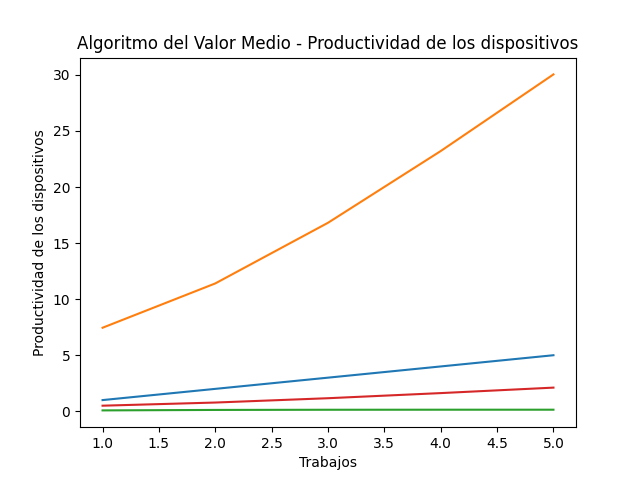
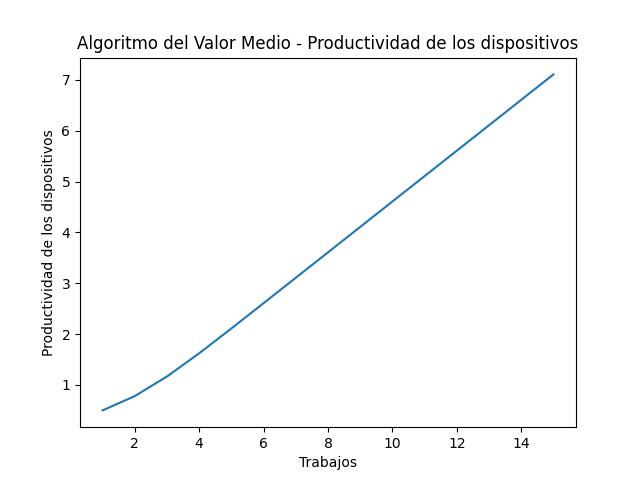
Finalizado

diff --git a/practica5.py b/practica5.py
@@ -1,5 +1,4 @@
 import csv
-import pandas as pd
 import matplotlib.pyplot as plt
 
 # Leemos el fichero con los datos
@@ -55,25 +54,27 @@ def __main__():
 
         write.writerows(resultados)
 
-    # Graficamos los resultados
+    # Almacenamos los valores del eje x para todas las graficas
     j = 0
     eje_x = [fila[j] for fila in resultados]
 
+    # Almacenamos las cabeceras de los valores del eje y
     cabeceras = [
-        "Tiempo de respuesta del sistema", 
-        "Productividad del sistema", 
-        "Tiempo de respuesta de los dispositivos",
-        "Productividad de los dispositivos",
+        "Tiempo de respuesta del sistema (s)", 
+        "Productividad del sistema (trabajos/s)", 
+        "Tiempo de respuesta de los dispositivos (s)",
+        "Productividad de los dispositivos (trabajos/s)",
         "Trabajos de los dispositivos",
-        "Utilización de los dispositivos"]
-    
+        "Utilización de los dispositivos (%)"]
+
+    # Graficamos los resultados
     for i in range(len(cabeceras)):
+        plt.figure()
         eje_y = [fila[i] for fila in resultados]
-        print(eje_y)
         plt.plot(eje_x, eje_y)
         plt.xlabel("Trabajos")
         plt.ylabel(f"{cabeceras[i]}")
-        plt.title(f"Algoritmo del Valor Medio - {cabeceras[i]}")
+        plt.title(f"{cabeceras[i]} frente a los Trabajos")
         plt.savefig(f"{cabeceras[i]}.png")
 
 # Función para formatear los resultados
